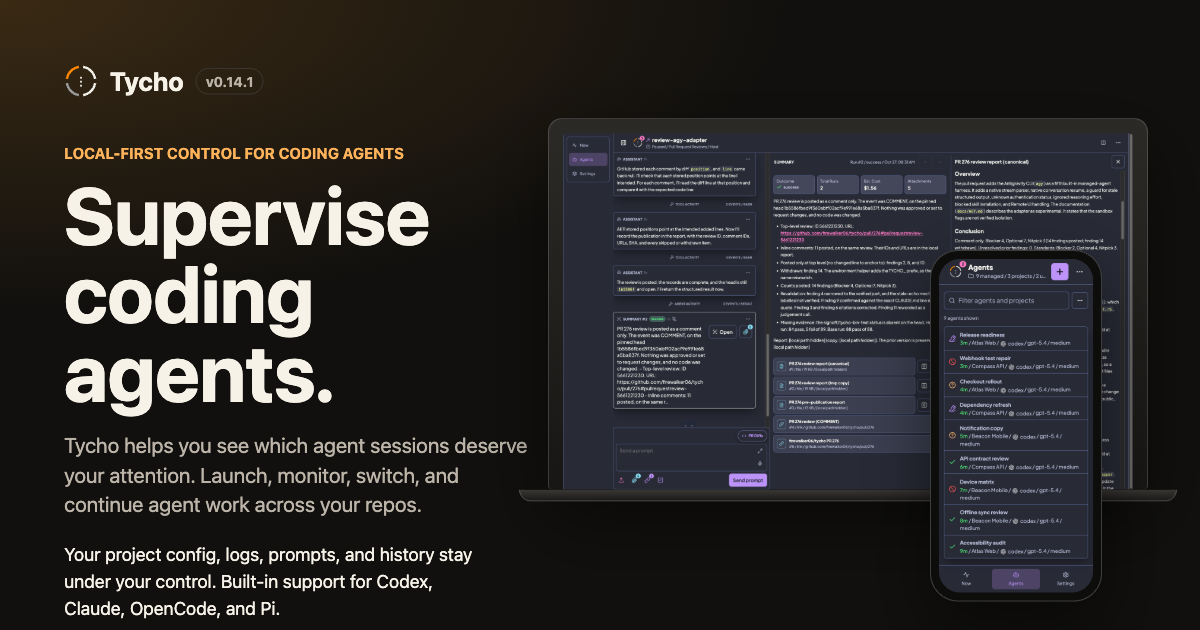
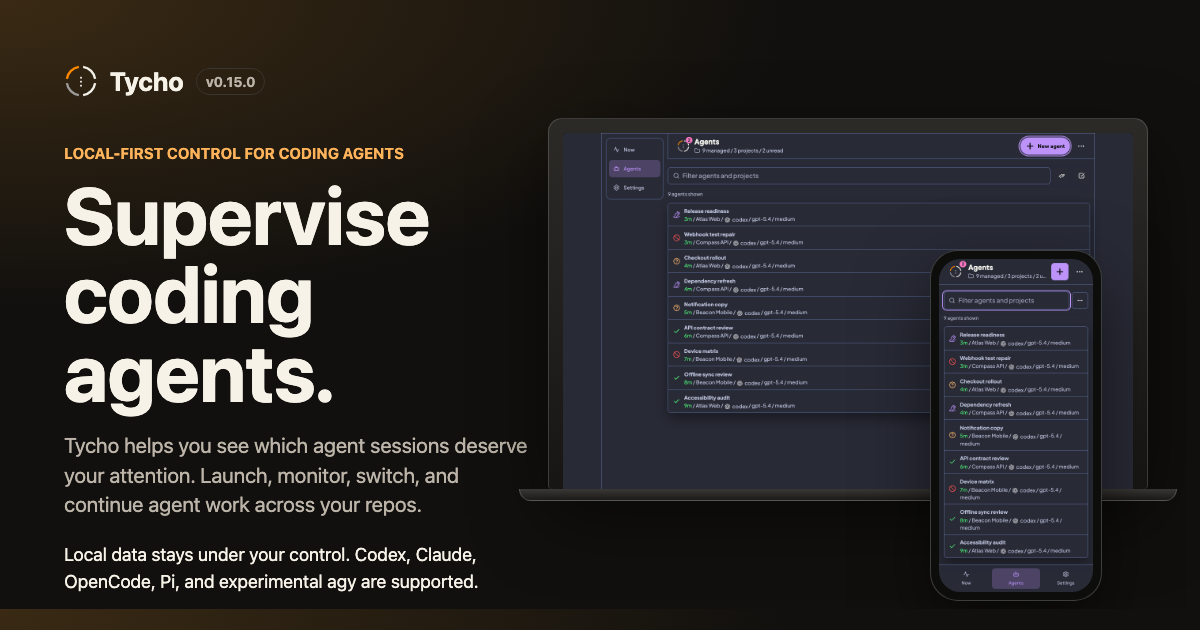
Update site for Tycho v0.15.0 (#18)
* Update site for Tycho v0.15.0

* Record v0.15.0 site verification

* Verify v0.15.0 release sources

diff --git a/docs/assets/site-homepage/card724-desktop-review-og.html b/docs/assets/site-homepage/card724-desktop-review-og.html
@@ -23,12 +23,12 @@ h1{margin:0 0 20px;font-size:80px;line-height:.98;letter-spacing:0}
 </style></head>
 <body>
 <div class="copy">
-  <div class="brand"><img src="../../../public/assets/tycho-logo-only.svg" alt="">Tycho <span class="ver">v0.14.1</span></div>
+  <div class="brand"><img src="../../../public/assets/tycho-logo-only.svg" alt="">Tycho <span class="ver">v0.15.0</span></div>
   <div class="eyebrow">Local-first control for coding agents</div>
   <h1>Supervise coding agents.</h1>
   <p class="lede">Tycho helps you see which agent sessions deserve your attention. Launch, monitor, switch, and continue agent work across your repos.</p>
-  <p class="proof">Your project config, logs, prompts, and history stay under your control. Built-in support for Codex, Claude, OpenCode, and Pi.</p>
+  <p class="proof">Local data stays under your control. Codex, Claude, OpenCode, Pi, and experimental agy are supported.</p>
 </div>
-<div class="frame laptop"><div class="scr"><img src="../../../public/assets/remote-desktop-review-2026-10-27.png" alt=""></div><div class="base"></div></div>
-<div class="frame phone"><div class="scr"><img src="../../../public/assets/remote-mobile-agents-v0.14.1.png" alt=""></div></div>
+<div class="frame laptop"><div class="scr"><img src="../../../public/assets/quickstart-watch-v0.15.0.png" alt=""></div><div class="base"></div></div>
+<div class="frame phone"><div class="scr"><img src="../../../public/assets/remote-mobile-agents-v0.15.0.png" alt=""></div></div>
 </body></html>

diff --git a/docs/audits/2026-11-06-v0.15.0.md b/docs/audits/2026-11-06-v0.15.0.md
@@ -1,0 +1,72 @@
+# Tycho v0.15.0 site audit
+
+This audit records site work started before the product release merge, under the operator's explicit exception to the normal start-after-merge rule, then updated after publication. It follows [site release instructions](https://github.com/firewalker06/tycho-site/blob/main/docs/RELEASING.md) and [ADR 004](https://github.com/firewalker06/tycho-site/blob/main/docs/decisions/adr-004-release-version-and-screenshots.md).
+
+## Source and release state
+
+- Released source: [Tycho v0.15.0](https://github.com/firewalker06/tycho/releases/tag/v0.15.0), commit [e34e2cd766762e9c5b8f76e4276523596ef8afb9](https://github.com/firewalker06/tycho/commit/e34e2cd766762e9c5b8f76e4276523596ef8afb9). Its tree matches the former source from [release-prep PR 338](https://github.com/firewalker06/tycho/pull/338).
+- Source files: `docs/releases/v0.15.0.md`, `CHANGELOG.md`, `docs/UPGRADING.md`, `lib/hq/cli_command.rb`, `lib/hq/domain/executable_resolver.rb`, and the release's Remote UI code.
+- The product tag and GitHub release now exist. The release URL and source links were checked after publication. Homebrew publication is a separate gate and remains under review.
+- Product release-prep validation is recorded on PR 338. This site audit does not use the running daemon or the real Tycho home. The Tycho CLI is not on this shell's PATH, so a live agent and schedule listing could not be completed without reading the protected real home.
+
+## Product and documentation review
+
+- Installation and upgrade copy uses Ruby 4.0.9 or newer, no new gem dependency, and no manual data migration. It names the Pi 0.84.4 RPC update, native stdin prompts, custom transport modes, and experimental agy support with unverified authentication and sandbox isolation.
+- Platform copy says Apple Silicon macOS and Linux remain the bottle targets and Intel macOS remains source-only since v0.11.0. The Homebrew release link is present but its release page is not live yet, so no bottle availability is claimed.
+- The CLI reference identifies the exact source commit. Comparing `lib/hq/cli_command.rb` between v0.14.1 and this source found no new or removed command forms. The documented `agent create --harness` choices now include experimental agy. The executable resolver confirms the built-in `agy` key; custom profiles with that key must be renamed.
+- The site keeps v0.14.0 and v0.14.1 as historical references. `check:links` permits these two historical release tags and requires every other Tycho release link to match the homepage badge.
+- Concept, harness, Remote UI, and upgrade guidance now describe the appearance choice, send and inquiry recovery, custom prompt transports, updated Pi contract, serve diagnostics, and agy limits. Unchanged CLI, project, schedule, configuration, and lifecycle details were checked against the release source. The only CLI registration change is the `agy` harness choice.
+
+## Screenshot inventory and decisions
+
+Captures were made from the former release-prep commit `69d76f3c632042860acefa049a6172e98a0352a7`, before the tag existed. After publication, its tree was checked against the released commit above and found identical. The source was exported with `git archive` to a temporary directory outside both checkouts. The product checkout and source files were not changed. The product capture script was changed only in that temporary archive: output names and output directory were redirected; its grouped-list assertion was corrected for the default flat list; and a 390 × 844 phone capture was added. The product source still contains that capture assertion defect.
+
+To repeat the source export from the published tag, run this from the Tycho product checkout:
+
+```bash
+mkdir -p /tmp/tycho-v0150-source /tmp/tycho-v0150-output /tmp/tycho-v0150-home /tmp/tycho-v0150-node
+git archive v0.15.0 | tar -x -C /tmp/tycho-v0150-source
+npm install --prefix /tmp/tycho-v0150-node --no-audit --fund=false --ignore-scripts playwright@1.65.0
+```
+
+The capture script was `bin/capture-site-quickstart`. In the temporary archive, `OUTPUT_DIR` was changed to `ENV.fetch("TYCHO_CAPTURE_OUTPUT_DIR", "/tmp/tycho-v0150-output")`; both output names were changed to v0.15.0; and Playwright's node directory was set to `/tmp/tycho-v0150-node`. The old grouped-list assertions were changed to expect one `.agent-flat-list`, and the old bottom-gap range check was removed while clipping checks remained. The added phone page used a 390 × 844 viewport and device scale 2. The clean-environment runner used:
+
+```bash
+env -i \
+  HOME=/tmp/tycho-v0150-home \
+  PATH=/Users/didik/.local/share/mise/installs/node/22.23.4/bin:/Users/didik/.local/share/mise/installs/ruby/4.0.9/bin:/usr/bin:/bin \
+  GEM_PATH=/Users/didik/.gem/ruby/4.0.0:/Users/didik/.local/share/mise/installs/ruby/4.0.9/lib/ruby/gems/4.0.0 \
+  TYCHO_HOME=/tmp/tycho-v0150-home \
+  TYCHO_CAPTURE_OUTPUT_DIR=/tmp/tycho-v0150-output \
+  /Users/didik/.local/share/mise/installs/ruby/4.0.9/bin/ruby \
+  /tmp/tycho-v0150-source/bin/capture-site-quickstart
+```
+
+The capture runner used Ruby 4.0.9, Node 22.23.4, Playwright 1.65.0, and Google Chrome 157.0.8103.38. Desktop captures use 1440 × 900 at device scale 1. The phone capture uses 390 × 844 at device scale 2 and produces 780 × 1688 pixels. The temporary Tycho home, config, logs, and workspaces were isolated under `/tmp/tycho-v0150-*`. The fixture uses three synthetic projects and nine synthetic sessions. No real session, host, prompt, token, config, or harness ran.
+
+| Image | Decision | Reason and SHA-256 |
+| --- | --- | --- |
[4 lines of base64/hex data omitted]
+| `public/assets/quickstart-answer-v0.14.0.png` | Keep | Shows an unanswered inquiry. Recovery controls apply after an uncertain submitted answer, which this image does not show. Its **Open** text control is now an icon. |
+| `public/assets/quickstart-resume-v0.14.0.png` | Keep | Shows a completed run and composer. Its **Open** text control and **Est. Cost** label are legacy UI; v0.15.0 uses an icon and **Est. total cost**. The fixture has no usage evidence, so its `Untracked` estimate remains valid. |
+| `public/assets/web-delegation-v0.14.0.png` | Keep | Shows the parent and delegated result. Its **Open** text control and **Started agent** card are legacy UI; that card is not proof of the saved delegated-action records added in v0.15.0. It still supports the parent-child and returned-report claim. |
+| `public/assets/web-summary-v0.14.0.png` | Keep | Its **Open** text control and **Est. Cost** label are legacy UI; v0.15.0 uses an icon and **Est. total cost**. The synthetic Summary has no usage evidence and shows `Untracked`, so the estimate content remains valid. It has no delegated-action records. |
+| `public/assets/remote-new-agent.png` | Remove | The unused image showed a temporary fixture path and did not match the current quickstart. |
+| v0.14.1 launch, watch, phone, and real-session desktop images | Remove | Replaced by exact-source v0.15.0 synthetic captures. The real-session capture authorization was scoped to its v0.14.1 use. |
+
+The new homepage desktop and phone captures are paired. The homepage and Open Graph image keep the local-first proof and the “Supervise coding agents.” promise. The Open Graph image was rendered from the saved HTML composition in Chrome; the complete copy fits inside the 1200 × 630 canvas.
+
+## Verification and remaining work
+
+- `corepack pnpm build` passed. It generated 12 pages; Astro reported its existing empty i18n and 404-entry warnings.
+- `corepack pnpm check:links` passed. It checked 12 pages, internal links, fragments, and release-link consistency. `git diff --check` passed.
+- Google Chrome 157.0.8103.38 checked the homepage, Getting Started, CLI Reference, Harnesses, Remote UI, and Concept at desktop 1440 × 1000 and mobile 390 × 844. All routes returned HTTP 200 with no broken images, page errors, or horizontal overflow. The homepage badge displays v0.15.0 and links to the exact expected tag. Carousel click, ArrowRight, Home, and mobile menu open/Escape passed.
+- The exact release tag and commit were checked. Their tree SHA is `668daf23f3a9abb61013d09d4c1326d0f8aa9029`; this matches the archived release-prep tree used for captures.
+- External HTTP checks returned `200` for the product release, release commit, release notes, upgrade guide, AGY guide, custom harness guide, inquiry recovery guide, serve diagnostics guide, Interaction Profiler guide, and the v0.15.0 source archive.
+- The Homebrew release URL returned `404` during bottle publication. This is pending, not a failed site check. Do not claim bottle availability until the link and assets are live.
+- The product capture script completed against the archived source with isolated Tycho state. The three images were inspected at full size. The Open Graph composition was inspected at 1200 × 630.
+- Native evidence for the desktop homepage, mobile homepage, desktop and mobile Getting Started pages, and social preview is attached to the draft site PR. All five GitHub image URLs returned `200 image/png`.
+- Independent review approved the initial site head with three optional items. This update addresses all three: capture commands are recorded, agy's ignored reasoning effort is stated, and retained images record their legacy Open and cost labels plus the absence of saved delegated-action records. The site PR remains draft. Homebrew release and bottle assets still need verification. Rerun site checks and signoff on the final site PR head after any commit. Do not deploy or merge as part of this preparation.

diff --git a/src/content/docs/docs/getting-started/index.md b/src/content/docs/docs/getting-started/index.md
@@ -7,8 +7,8 @@ This path gets you from an empty Tycho installation to one supervised agent sess
 
 ## Requirements
 
-- Homebrew bottles for v0.14.1 are published for Apple Silicon macOS 26 (Tahoe) (`arm64_tahoe`) and x86_64 Linux (`x86_64_linux`). See the [v0.14.1 Homebrew release](https://github.com/firewalker06/homebrew-tycho/releases/tag/tycho-0.14.1).
-- Intel macOS: v0.11.0 is the final bottle. Use a source install for v0.14.1.
+- v0.15.0 targets Apple Silicon macOS and Linux Homebrew bottles. Bottle publication is separate from the Tycho source release. Check the [v0.15.0 Homebrew release](https://github.com/firewalker06/homebrew-tycho/releases/tag/tycho-0.15.0) before you install.
+- Intel macOS: v0.11.0 is the final bottle. Use a source install for v0.15.0.
 - For a source install: Ruby 4.0.9 or newer, Bundler, Go, and native build tools. Source installs also work in Linux-style environments and Windows 11 through WSL.
 - At least one installed and authenticated coding-agent CLI: Codex, Claude, OpenCode, Pi, or a compatible custom harness profile.
 
@@ -16,7 +16,7 @@ On macOS 15 (Sequoia) or other platforms without a published bottle, use [Instal
 
 ## Install with Homebrew
 
-The [v0.14.1 Homebrew bottles](https://github.com/firewalker06/homebrew-tycho/releases/tag/tycho-0.14.1) are published for the supported platforms listed above. Install with:
+When the [v0.15.0 Homebrew bottles](https://github.com/firewalker06/homebrew-tycho/releases/tag/tycho-0.15.0) are published for your platform, install with:
 
 ```bash
 brew tap firewalker06/tycho
@@ -31,7 +31,7 @@ tycho update
 
 `tycho update` is for Homebrew installs and safely restarts any running local Remote UI server or scheduler daemon. Source checkouts update with Git; rerun `bin/setup` if its dependency check asks you to.
 
-After installing or upgrading, verify that `tycho --version` reports `0.14.1`:
+After installing or upgrading, verify that `tycho --version` reports `0.15.0`:
 
 ```bash
 tycho --version
@@ -41,11 +41,13 @@ tycho project list
 tycho schedule list
 ```
 
-Projects must now be created explicitly: replace `tycho project my-project` with `tycho project create my-project [options]`. Use `tycho project show my-project` to inspect an existing project. If upgrading from a release before v0.13.0, update every Tycho-owned skill in **Settings → Skills**, then restart a harness if needed. The packaged skill is unchanged from v0.13.0 to v0.14.0. Tycho will not overwrite an unmarked or locally modified skill.
+v0.15.0 keeps Ruby 4.0.9 or newer and adds no gem dependency or manual data migration. It sends managed prompts through stdin, adds configurable prompt transports for custom profiles, and updates Pi to `@earendil-works/pi-coding-agent` 0.84.4. It also adds experimental native agy support. Authentication and sandbox isolation for agy are not verified. See the [v0.15.0 release notes](https://github.com/firewalker06/tycho/releases/tag/v0.15.0) and [upgrade guide](https://github.com/firewalker06/tycho/blob/v0.15.0/docs/UPGRADING.md#0150).
 
-Existing Claude custom profiles keep working, but new profiles must declare one native adapter: `codex`, `claude`, `opencode`, or `pi`. Automation using the removed `tycho github login`, `tycho github status`, or `tycho github logout` commands must be deleted; read-only agent pull-request diffs use an authenticated local `gh` CLI.
+Projects must be created explicitly: use `tycho project create my-project [options]`. Use `tycho project show my-project` to inspect one. If you upgrade from a release before v0.13.0, update each Tycho-owned skill in **Settings → Skills**, then restart its harness if needed. Tycho will not overwrite an unmarked or locally changed skill.
 
-v0.14.1 requires Ruby 4.0.9 or newer, adds `jwt` (`>= 3.2.0`, `< 4`) as a direct gem dependency, and adds the optional `quick_agent.default_project_key` setting. It groups delegated agents under their parents in the Agents list and shows harness marks beside harness names. No manual data migration is required. See the [v0.14.1 release notes](https://github.com/firewalker06/tycho/releases/tag/v0.14.1) and [upgrade guide](https://github.com/firewalker06/tycho/blob/v0.14.1/docs/UPGRADING.md#0141).
+Existing custom profiles remain supported. New profiles must use the `codex`, `claude`, `opencode`, or `pi` adapter. The key `agy` is now reserved for experimental native support; rename a custom profile with that key. Remove automation that calls the removed `tycho github login`, `tycho github status`, or `tycho github logout` commands. Read-only agent pull-request diffs use an authenticated local `gh` CLI.
+
+v0.14.1 requires Ruby 4.0.9 or newer and added the optional `quick_agent.default_project_key` setting. It groups delegated agents under their parents in the Agents list and shows harness marks beside harness names. No manual data migration was required. See the [v0.14.1 release notes](https://github.com/firewalker06/tycho/releases/tag/v0.14.1) and [upgrade guide](https://github.com/firewalker06/tycho/blob/v0.14.1/docs/UPGRADING.md#0141).
 
 v0.14.0 adds the local offline `tycho harness list` catalog, inquiry draft persistence, and improved Summary attachment previews. Context replacement transfers recurring schedule ownership and archives the source at its safe lifecycle point. Manual archive has different queue and inquiry outcomes; read [Agent Session Lifecycle](/docs/concept/lifecycle/#context-pressure-and-handoffs) before using it. No manual data migration or credential reset is required. FRED remains removed.
 
@@ -56,7 +58,7 @@ Use `tycho serve restart` and `tycho schedule restart` in automation. The old `t
 Use a source checkout when you want to contribute or Homebrew is not suitable:
 
 ```bash
-git clone --branch v0.14.1 https://github.com/firewalker06/tycho.git
+git clone --branch v0.15.0 https://github.com/firewalker06/tycho.git
 cd tycho
 bin/setup --check
 bin/setup
@@ -131,8 +133,6 @@ Keep that terminal open, then open [http://127.0.0.1:7373](http://127.0.0.1:7373
    ```
 
 4. Choose **Create and run**.
-
-![The Tycho Remote UI New agent form for the Welcome Sandbox](/assets/remote-new-agent.png)
 
 Remote UI records and displays the same agent session state as the TUI and CLI.
 

diff --git a/src/content/docs/docs/configuration/harnesses.md b/src/content/docs/docs/configuration/harnesses.md
@@ -1,6 +1,6 @@
 ---
 title: Harnesses
-description: Run Codex, Claude, OpenCode, Pi, or a compatible custom harness profile through Tycho.
+description: Run Codex, Claude, OpenCode, Pi, experimental agy, or a custom harness profile through Tycho.
 ---
 
 A harness is the command adapter Tycho uses to run a coding-agent CLI.
@@ -15,15 +15,16 @@ Tycho includes harnesses for Codex, Claude, OpenCode, and Pi. Each one uses the 
 | Claude | `claude` | `TYCHO_CLAUDE_BIN` |
 | OpenCode | `opencode` | `TYCHO_OPENCODE_BIN` |
 | Pi | `pi` | `TYCHO_PI_BIN` |
+| agy | `agy` | `TYCHO_AGY_BIN` |
 
 Install and authenticate the CLI you plan to use before starting its first agent session. A missing harness executable does not stop Tycho itself, but a session that uses it cannot run.
 
-Tycho parses each built-in harness's native output, records conversation and run history, preserves its native session ID, and maps configured model and reasoning-effort values to that CLI's arguments. This creates a consistent supervision workflow, not identical behavior across the four CLIs.
+Managed prompts use stdin for Codex, Claude, OpenCode, Pi, and agy. Tycho parses each harness's native output, records conversation and run history, preserves native session IDs where available, and maps configured model and reasoning-effort values to the CLI contract.
 
-Pi support targets `@mariozechner/pi-coding-agent` 0.73.1. Install the exact supported version:
+Pi support targets `@earendil-works/pi-coding-agent` 0.84.4. Install the supported version:
 
 ```bash
-npm install -g --ignore-scripts @mariozechner/pi-coding-agent@0.73.1
+npm install -g --ignore-scripts @earendil-works/pi-coding-agent@0.84.4
 ```
 
 Run `pi`, enter `/login`, and authenticate a provider. Then verify readiness before selecting the harness:
@@ -33,6 +34,26 @@ pi --list-models
 ```
 
 Tycho reports Pi as ready only when that command returns at least one authenticated model.
+
+Older Pi versions that emit only `agent_end` are unsupported. Restricted Pi modes use a tool allowlist; they do not provide filesystem isolation.
+
+## Experimental agy
+
+Tycho includes native support for the Antigravity CLI (`agy`), including conversation resume, structured results, model discovery, and skill installation. It is experimental. Authentication status and sandbox isolation are not verified. Do not use it in production. The name `agy` is reserved; rename a custom profile that uses this key. See [agy support and limits](https://github.com/firewalker06/tycho/blob/v0.15.0/docs/AGY.md).
+
+Tycho ignores saved reasoning effort for agy. It sends no effort flag, so agy uses its native default.
+
+## Custom Prompt Transport
+
+Custom wrappers use the native adapter's stdin contract by default, except Pi, which uses JSONL RPC. A wrapper that requires the prompt as an argument can select version 1 `argv` transport:
+
+```yaml
+prompt_transport:
+  version: 1
+  mode: argv
+```
+
+Version 1 also supports `stdin` and private `file` transport. `argv` keeps operating-system argument limits and exposes prompt text in the process arguments. See [custom harness transport](https://github.com/firewalker06/tycho/blob/v0.15.0/docs/CUSTOM_HARNESSES.md#migration).
 
 ## Inspect Local Model and Reasoning Catalogs
 
@@ -160,7 +181,7 @@ custom_harnesses:
 
 The command must accept the selected adapter's native flags for streaming output, structured results, model and effort selection, and native-session resume. Tycho validates the configuration and executable, but the wrapper remains responsible for its provider credentials and runtime dependencies. Existing `adapter: claude` profiles remain valid.
 
-A custom key cannot be `codex`, `claude`, `opencode`, or `pi`, because those names belong to the built-in harnesses.
+A custom key cannot be `codex`, `claude`, `opencode`, `pi`, or `agy`, because those names belong to built-in harnesses. Rename a custom profile named `agy` and update its references before upgrading.
 
 ## Structured Result Validation
 

diff --git a/src/content/docs/docs/getting-started/remote-ui.md b/src/content/docs/docs/getting-started/remote-ui.md
@@ -34,6 +34,14 @@ Inquiry values save locally while you type and survive refresh and reload. Conve
 
 The agent switcher follows the same ordering and status cues as the Agents view. While a session is running, you can queue follow-up prompts and load newer conversation messages on demand without losing the focused conversation.
 
+### Recover uncertain sends
+
+Tycho confirms accepted messages with a small receipt. An exact retry uses the same request ID, so it does not add a second message after acceptance. If delivery is uncertain, use **Retry** or **Cancel retry**. Cancel stops browser retries across tabs that share browser storage; it does not remove work the server accepted. Inquiry answers keep their fields, feedback, and files while Tycho retries or restores the response. See [inquiry answer recovery](https://github.com/firewalker06/tycho/blob/v0.15.0/docs/INQUIRY_ANSWER_RECOVERY.md) for limits.
+
+### Appearance
+
+Choose Dark, Light (Nord), or System in **Settings → Configuration → Appearance**. Dark remains the default. System follows the operating-system preference. Tycho applies a saved choice before first paint and shares changes across open tabs.
+
 ## Browse a Project Safely
 
 Each registered project has a **Files** view. Search files, preview Markdown and images, and use guarded plain-text editing on desktop where available; existing workspaces remain read-only on mobile. The server accepts relative paths inside that project and rejects traversal, unsafe symlinks, VCS and generated directories, secret-shaped names or content, binary files, and oversized previews. This boundary protects browsing and editing; it does not restrict what a launched harness can access. Review [Harnesses](/docs/configuration/harnesses/#harness-and-workspace-safety) before running an agent.
@@ -58,6 +66,10 @@ tycho serve
 This keeps the generated value in the named shell variable and copies it to the macOS clipboard without printing it. When Remote UI asks for authentication, paste that same value into **Remote token** and save it. On WSL, replace `pbcopy` with `clip.exe`; on Linux with Wayland, use `wl-copy`. Do not print the token, put its literal value in shell history, or paste it anywhere else. Run `unset TYCHO_REMOTE_TOKEN_VALUE TYCHO_REMOTE_TOKEN` after the server stops.
 
 When Tailscale is available, `tycho serve` can auto-bind to its IPv4 address and print a MagicDNS URL and QR code. Prefer Tailscale Serve HTTPS when you need service workers or push notifications. Passing `--host` disables Tailscale auto-binding.
+
+### Serve diagnostics
+
+Authenticated server diagnostics report admission, worker use, store-lock waits, route time, and response writes. See [serve diagnostics](https://github.com/firewalker06/tycho/blob/v0.15.0/docs/SERVE_DIAGNOSTICS.md). The optional Interaction Profiler is a separate tool; see its [guide](https://github.com/firewalker06/tycho/blob/v0.15.0/docs/REMOTE_UI_INTERACTION_PROFILER.md).
 
 ## Notification Evidence
 

diff --git a/src/content/docs/docs/reference/index.md b/src/content/docs/docs/reference/index.md
@@ -1,9 +1,9 @@
 ---
 title: CLI Reference
-description: Tycho v0.14.1 commands, queue recovery, server controls, and compatibility notes.
+description: Tycho v0.15.0 commands, recovery controls, server diagnostics, and compatibility notes.
 ---
 
-This reference describes [Tycho v0.14.1](https://github.com/firewalker06/tycho/releases/tag/v0.14.1), commit `2092ce32874d1b874bb467b8d293f986c7b5648a`. Command forms were checked against that tag's command registry and the `--help` output of each registered command. Run `tycho <group> <command> --help` for command-specific options; the top-level help omits some registered commands.
+This reference describes [Tycho v0.15.0](https://github.com/firewalker06/tycho/releases/tag/v0.15.0), released at commit [e34e2cd766762e9c5b8f76e4276523596ef8afb9](https://github.com/firewalker06/tycho/commit/e34e2cd766762e9c5b8f76e4276523596ef8afb9). Command forms were checked against the exact release tag. Run `tycho <group> <command> --help` for command-specific options; the top-level help omits some registered commands.
 
 ## General Commands
 
@@ -64,7 +64,7 @@ tycho agent clone my-project-agent-3 --run
 tycho agent clone my-project-agent-3 --handoff --run
 ```
 
-Create accepts `--harness`, `--model`, `--name`, `--template`, and `--run`. Clone supports `--handoff` for concise source context. Ordinary CLI clones retain their source; Remote UI context replacement archives its source and transfers schedule ownership at its safe lifecycle point. Logs support `--type raw|conversation|system` and `--follow`.
+Create accepts `--harness`, `--model`, `--name`, `--template`, and `--run`. Built-in harness choices are Codex, Claude, OpenCode, Pi, and experimental agy; custom profiles can add a configured key. Clone supports `--handoff` for concise source context. Ordinary CLI clones retain their source; Remote UI context replacement archives its source and transfers schedule ownership at its safe lifecycle point. Logs support `--type raw|conversation|system` and `--follow`.
 
 Create an explicit child session:
 
@@ -129,7 +129,7 @@ tycho serve restart --server vps --json
 tycho schedule restart --server vps --json
 ```
 
-In v0.14.1, `tycho serve restart --help` stops with a `NameError` in the source. The same options work without `--help`, and invalid options report a normal error. Check `tycho serve restart` output before relying on it in automation.
+The authenticated `GET /diagnostics/serve` endpoint reports request timing and worker admission data. Use it to inspect service load; it does not expose prompt or credential contents. See [Serve diagnostics](/docs/getting-started/remote-ui/#serve-diagnostics).
 
 Check the installed version with `tycho --version` or `tycho -v`. `tycho update` upgrades a Homebrew installation and restarts running local services through their stable launcher; source checkouts update through Git instead.
 

diff --git a/src/content/docs/docs/concept/index.md b/src/content/docs/docs/concept/index.md
@@ -17,7 +17,7 @@ An agent session can create bounded child work and receive a durable report when
 
 ## Harness
 
-A harness is the adapter Tycho uses to run a coding-agent CLI. Codex, Claude, OpenCode, and Pi are built in; compatible custom profiles can use any of those four native adapter families. Tycho standardizes the operator loop, while authentication, permissions, models, and runtime behavior remain harness-specific. See [Harnesses](/docs/configuration/harnesses/).
+A harness is the adapter Tycho uses to run a coding-agent CLI. Codex, Claude, OpenCode, and Pi are built in. Experimental agy support is also available, but its authentication status and sandbox isolation are unverified. Compatible custom profiles can use the Codex, Claude, OpenCode, or Pi adapter families. Tycho standardizes the operator loop, while authentication, permissions, models, and runtime behavior remain harness-specific. See [Harnesses](/docs/configuration/harnesses/).
 
 ## Remote Server
 

diff --git a/src/content/docs/docs/configuration/index.md b/src/content/docs/docs/configuration/index.md
@@ -85,7 +85,7 @@ A missing or invalid structured result still gets a Summary card. Only the detai
 
 Attach or detach a pull request from the session's PR diff catalog through Remote UI or `tycho agent pr-diff add` and `remove`. Detaching preserves source attachments and shared immutable snapshots.
 
-![Tycho v0.14.0 Summary view with run navigation and a completed result](/assets/web-summary-v0.14.0.png)
+![Tycho Summary view with run navigation and a completed result](/assets/web-summary-v0.14.0.png)
 
 For an agent-owned pull request, open its saved diff, select exact added, removed, or context lines, write a comment, and choose **Add section**. Tycho attaches bounded context from that immutable snapshot to the same agent composer. If the pull request changes, refresh and select again; stale selections are rejected instead of being applied to a different diff.
 

diff --git a/src/content/docs/docs/reference/glossary.md b/src/content/docs/docs/reference/glossary.md
@@ -13,7 +13,7 @@ The internal Tycho object behind an agent session. Use this term in technical re
 
 ## Harness
 
-The command adapter Tycho uses to run a coding agent. Codex, Claude, OpenCode, and Pi are built in. A compatible custom profile declares one of those native adapters plus its own key and execution command.
+The command adapter Tycho uses to run a coding agent. Codex, Claude, OpenCode, and Pi are built in. Experimental agy support is available, but its authentication status and sandbox isolation are unverified. A compatible custom profile declares the Codex, Claude, OpenCode, or Pi adapter plus its own key and execution command.
 
 ## Operator Loop
 
